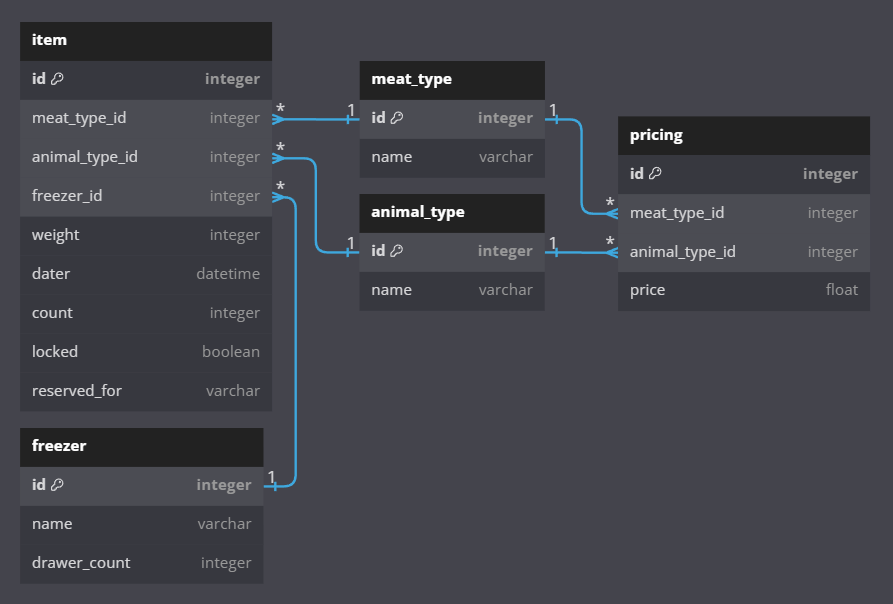
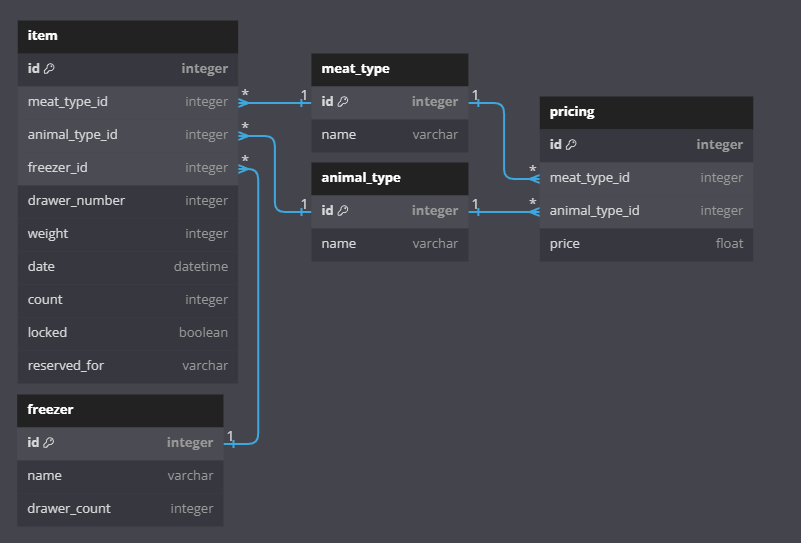
update db schema

diff --git a/src/api/models/db_schema.md b/src/api/models/db_schema.md
@@ -3,8 +3,9 @@ id integer [primary key]
 meat_type_id integer
 animal_type_id integer
 freezer_id integer
+drawer_number integer
 weight integer
-dater datetime
+date datetime
 count integer
 locked boolean
 reserved_for varchar
